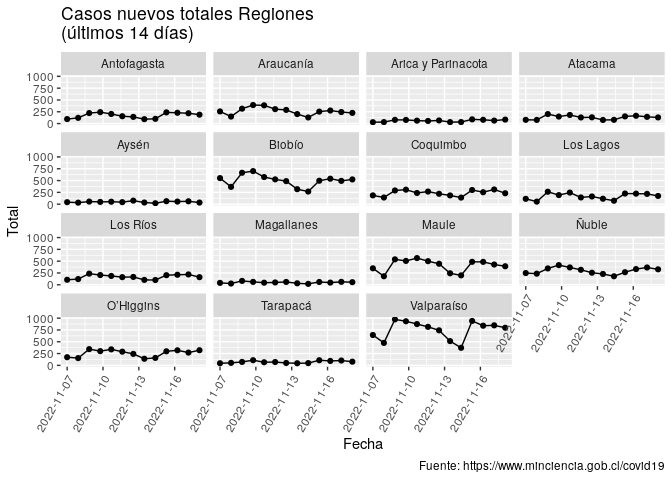
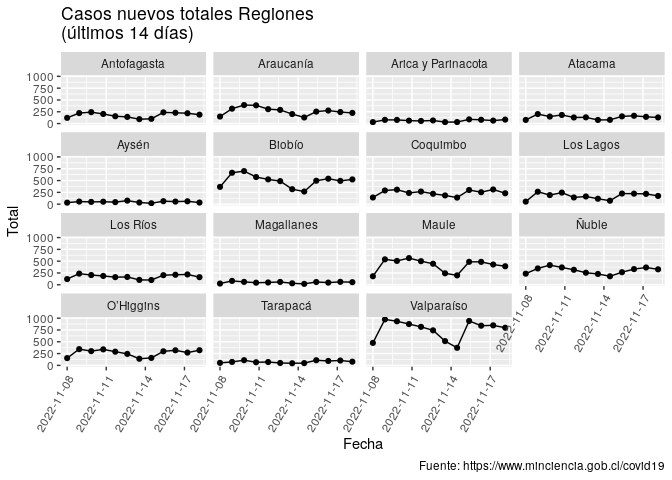
Re-build Rmarkdown files

diff --git a/README.md b/README.md
@@ -3,7 +3,7 @@
 
 Ejemplo de uso de total\_casos de COVID recopilados por el Ministerio de
 Ciencia de Chile <https://www.minciencia.gob.cl/covid19>. Última
-actualización: 2022-11-20
+actualización: 2022-11-21
 
 ## Visualización desde el comienzo de la pandemia
 
